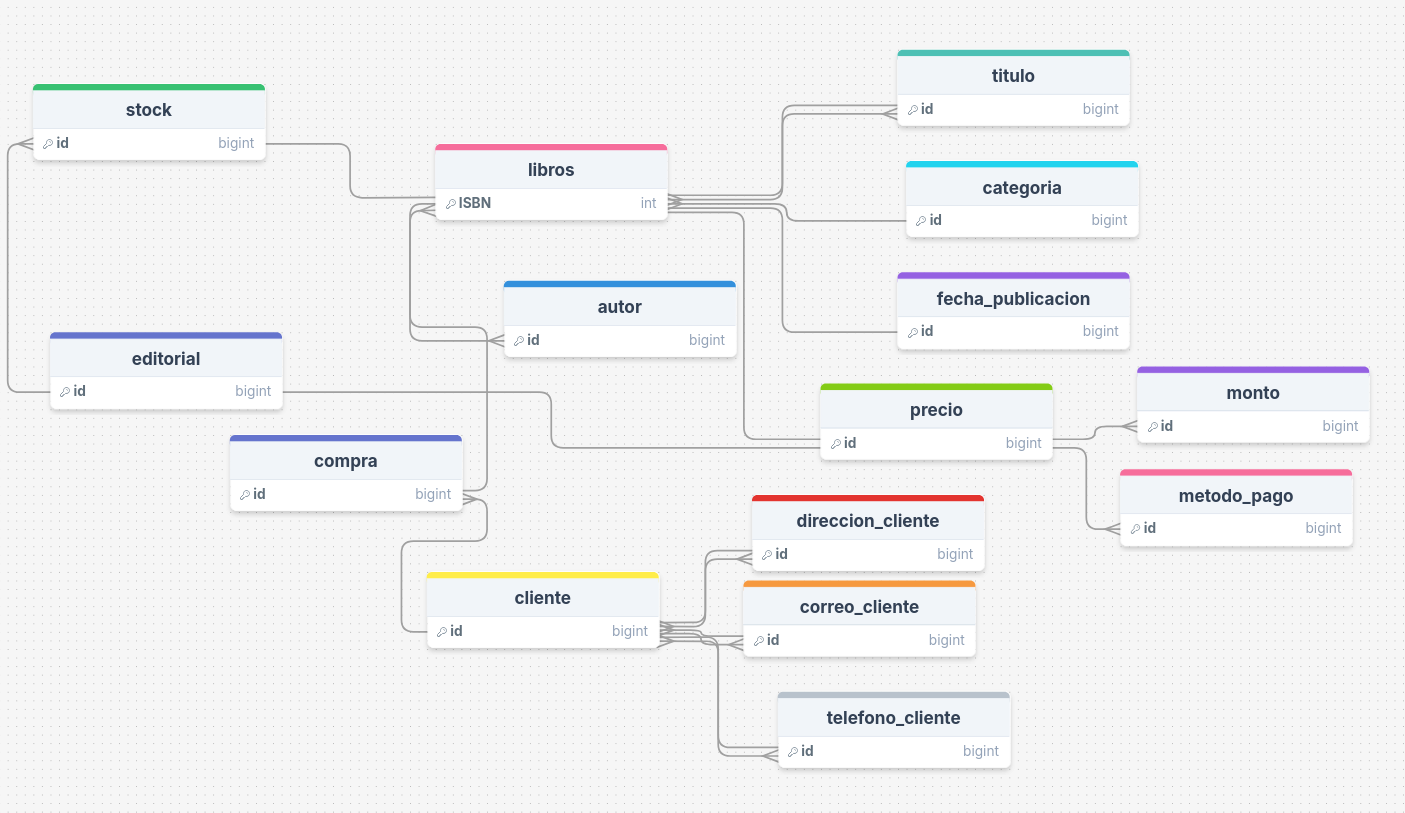
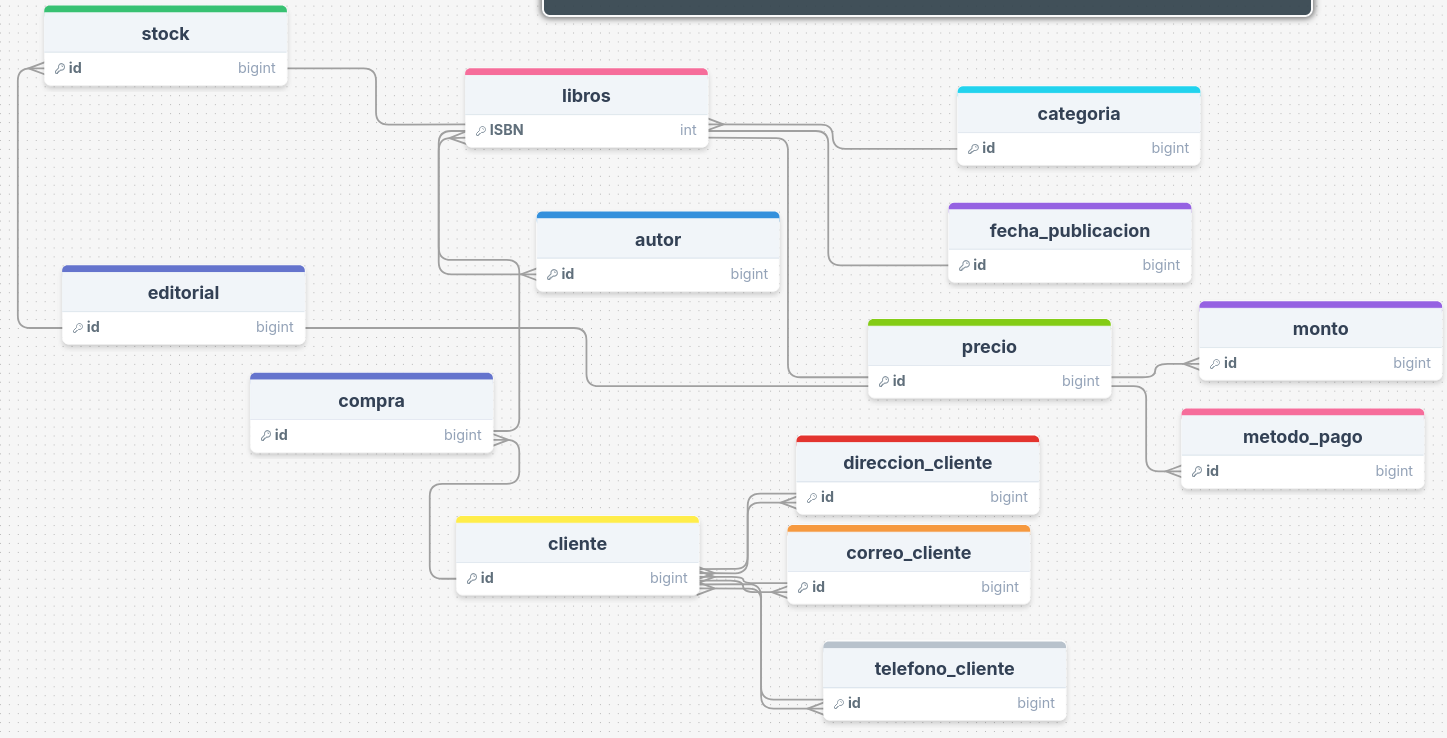
feat: :sparkles: fisica (o eso creo)

diff --git a/README.md b/README.md
@@ -12,8 +12,11 @@ debido al contexto del caso se nos brinda una tabla cuyas tablsa principales y s
 Como podemos evidenciar, se define una cantidad total de 13 tablas, sin tener en cuenta por ahora las tablas auxiliares ya que a pesar de que todas estas entidades se relacionan con libros, pueden llegar a tener atributos unicos, tablas intermedias y relaciones de muchos a muchos que pueden alterar la funcionalidad de la base de datos, a su vez, momentaneamente se creò una tabla intermedia entre cliente y libros que es "compra" para poder definir las caracteristicas de la compra del cliente de libros.
 
 ### fase fisica: 
-En esta fase ya se tratan de definir los datos y algunas tablas intermedias
-![alt text](./fisica.png)
+En esta fase ya se tratan de definir los datos y algunas tablas intermedias.
+
+Aqui ya se pueden los datos que se van a manejar, sus relaciones y algunas tablas auxiliares, falta por definir la parte de  la normalizacion.
+![alt text](image-1.png)
+![fase fisica](./fisica.png)
 
 ## Parte 2: Diagrama Conceptual de Entidad-Relación
 - -  
